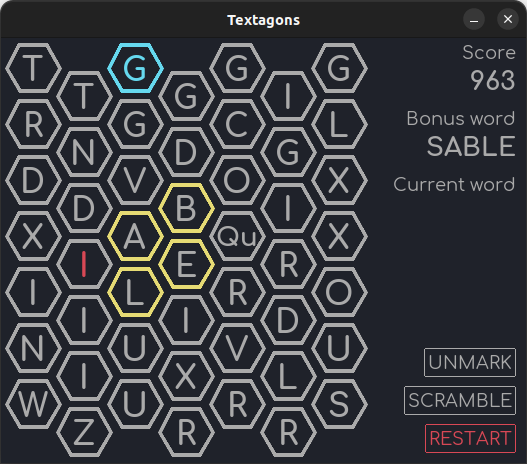
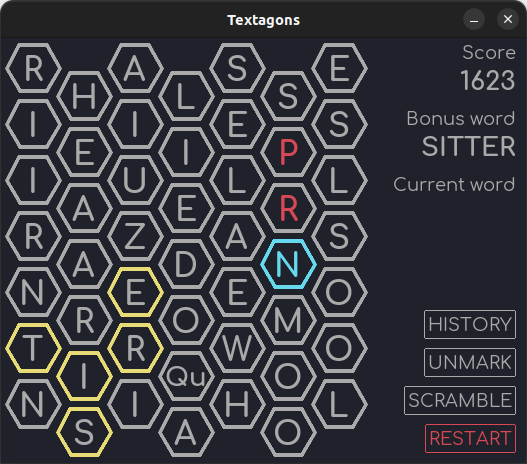
Handle game over

diff --git a/tile_group.py b/tile_group.py
@@ -80,15 +80,23 @@ class TileGroup(pygame.sprite.Group):
     def bottom_row(self) -> list[Tile]:
         return [t for t in self.sprites() if not self.get_tiles_below_tile(t)]
 
-    def burn_down(self, fire_tile: Tile) -> None:
+    def burn_down(self, fire_tile: Tile) -> bool:
+        '''
+        Causes individual fire tiles to burn
+        through their neighbors below.
+
+        Also checks for and returns "Game Over"
+        condition and returns that as a boolean.
+        '''
         fire_tile.burn_ready = False
 
         if self.get_tiles_below_tile(fire_tile):
             tiles_below = self.get_tiles_below_tile(fire_tile)
             if tiles_below:
                 self.remove_tile(tiles_below[0])
+                return False
         else:
-            print('Game over')  # Fire tile was on bottom row
+            return True  # Game over
 
     def deselect(self) -> None:
         for tile in self.sprites():
@@ -203,7 +211,9 @@ class TileGroup(pygame.sprite.Group):
         for tile in self.sprites():
             tile.set_type(tile_type)
 
-    def update(self) -> None:
+    def update(self) -> bool:
+        game_over = False
+
         self.update_tile_targets()
 
         for fire_tile in self.fire_tiles():
@@ -211,9 +221,13 @@ class TileGroup(pygame.sprite.Group):
                 self.get_tiles_below_tile(fire_tile)) and \
                 fire_tile.rect.y == fire_tile.target_y
             if fire_tile.rect.y == fire_tile.target_y and fire_tile.burn_ready:
-                self.burn_down(fire_tile)
+                burn_through_bottom_row = self.burn_down(fire_tile)
+                if burn_through_bottom_row and not game_over:
+                    game_over = True
 
         super().update()  # Calls update() for all child sprites
+
+        return game_over
 
     def update_tile_targets(self) -> None:
         bottom_row = self.bottom_row()

diff --git a/ui.py b/ui.py
@@ -331,18 +331,26 @@ class UIGroup(pygame.sprite.Group):
                            coords=(220, 174), font=fonts['small'])
 
 
-    def show_restart_menu(self, fonts: list[pygame.font.Font]) -> None:
+    def show_restart_menu(self, fonts: list[pygame.font.Font],
+                          game_over: bool=False) -> None:
         menu_dimensions = (261, 150)
         self.add(Menu(label='restart_menu', dimensions=menu_dimensions,
                       offset=(55, 132)))
         restart_menu = self.restart_menu()
-        restart_menu.add_centered_text(text='Restart game?',
-                                       font=fonts['bold_sm'])
-        restart_menu.add_button(label='restart_yes', text='YES',
-                                coords=(70, 112), font=fonts['small'],
-                                color=red)
-        restart_menu.add_button(label='restart_no', text='NO',
-                                coords=(155, 112), font=fonts['small'])
+
+        if game_over:
+            restart_menu.add_centered_text(text='Game over',
+                                           font=fonts['bold_sm'])
+            restart_menu.add_button(label='restart_yes', text='Restart',
+                                    coords=(96, 112), font=fonts['small'])
+        else:
+            restart_menu.add_centered_text(text='Restart game?',
+                                           font=fonts['bold_sm'])
+            restart_menu.add_button(label='restart_yes', text='YES',
+                                    coords=(70, 112), font=fonts['small'],
+                                    color=red)
+            restart_menu.add_button(label='restart_no', text='NO',
+                                    coords=(155, 112), font=fonts['small'])
 
     def show_score_delta(self, delta: str) -> None:
         textfield = [s for s in self.sprites() \

diff --git a/main.py b/main.py
@@ -223,6 +223,7 @@ def main() -> None:
     clock = pygame.time.Clock()
     menu_open = False
     tiles_ready = True
+    game_over = False
 
     fonts = get_fonts()
 
@@ -253,6 +254,10 @@ def main() -> None:
         clock.tick(60)
 
         tiles_ready = tiles.is_all_at_target()
+
+        if game_over:
+            menu_open = True
+            ui_group.show_restart_menu(fonts=fonts, game_over=True)
 
         for event in pygame.event.get():
             if event.type == pygame.QUIT:
@@ -307,7 +312,8 @@ def main() -> None:
 
         screen.fill(dark_gray)
 
-        tiles.update()
+        game_over = tiles.update()
+
         for tile in tiles:
             screen.blit(tile.image, (tile.rect.x, tile.rect.y))
 
@@ -323,3 +329,6 @@ if __name__ == '__main__':
     pygame.display.set_caption("Textagons")
 
     main()
+
+# TODO: Be able to submit with 2 tiles if 1 is "Qu"
+# Actually handle Game Over
